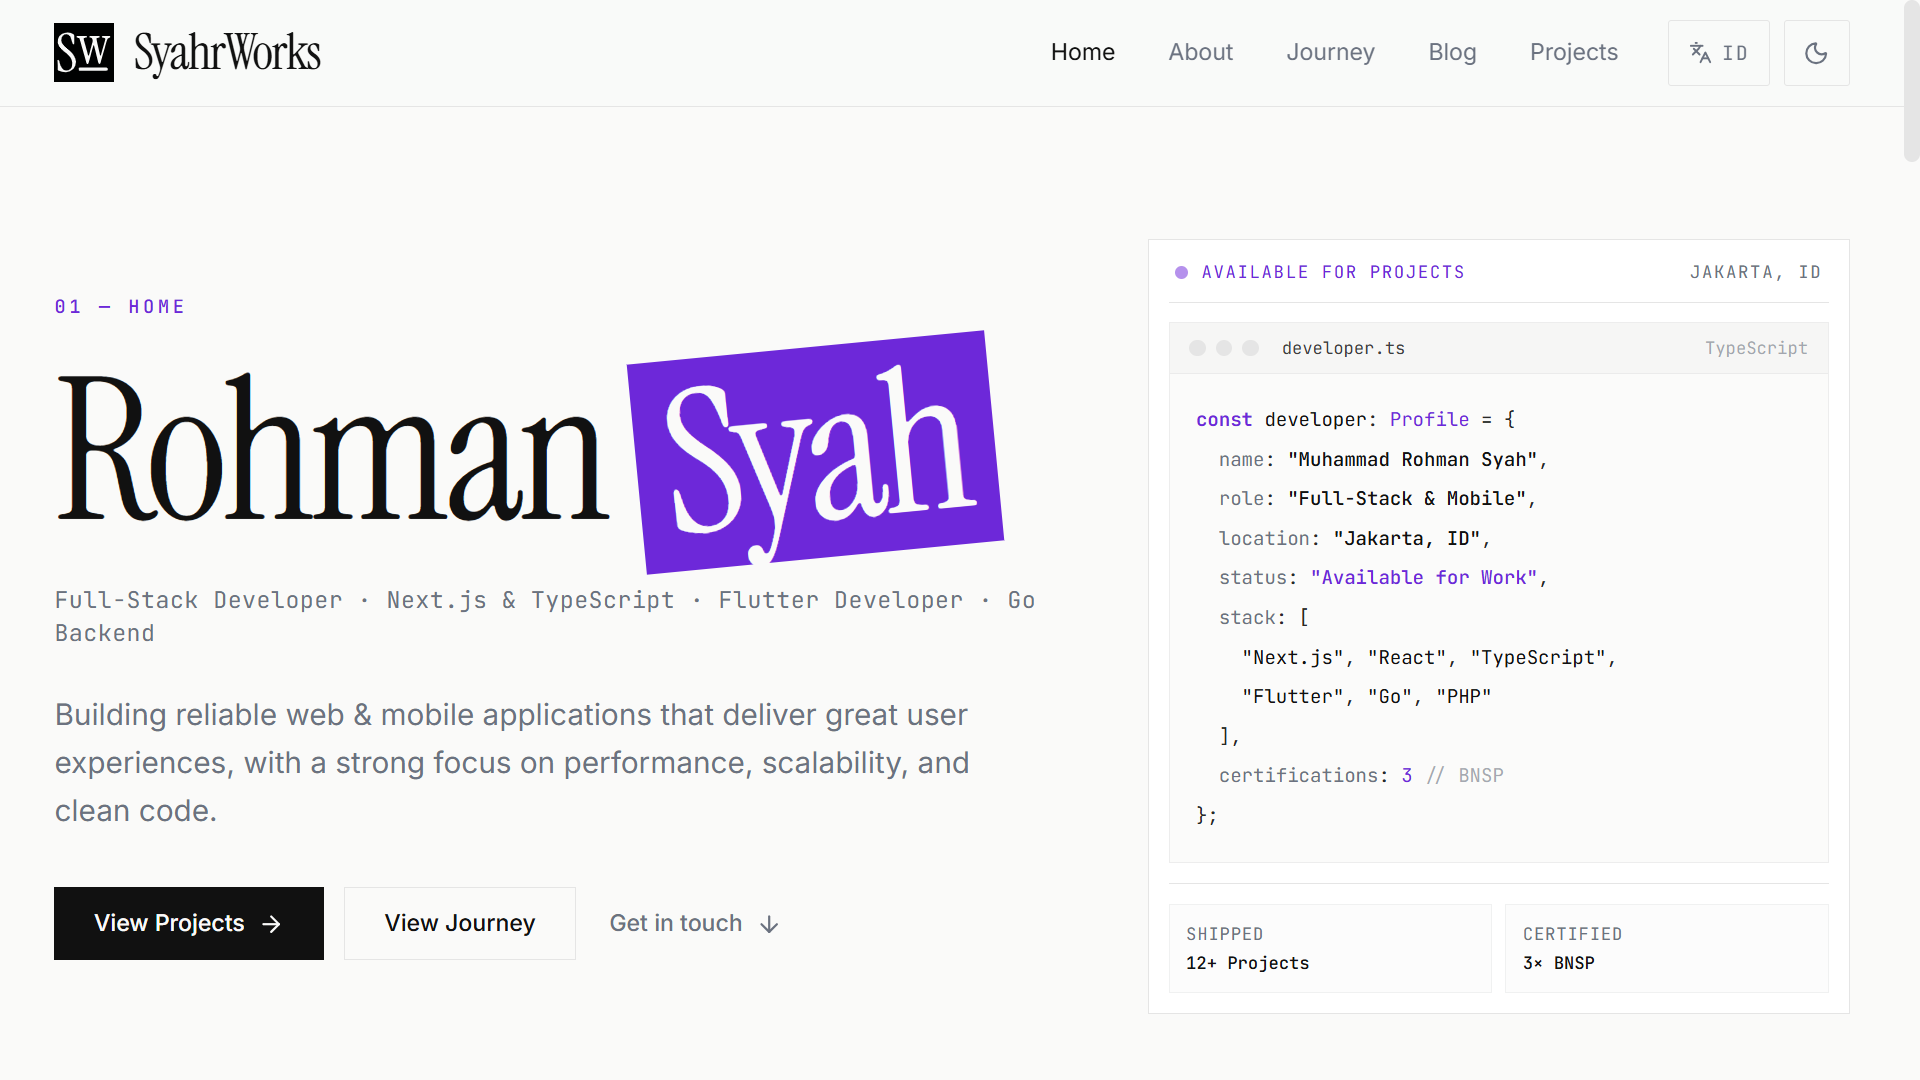
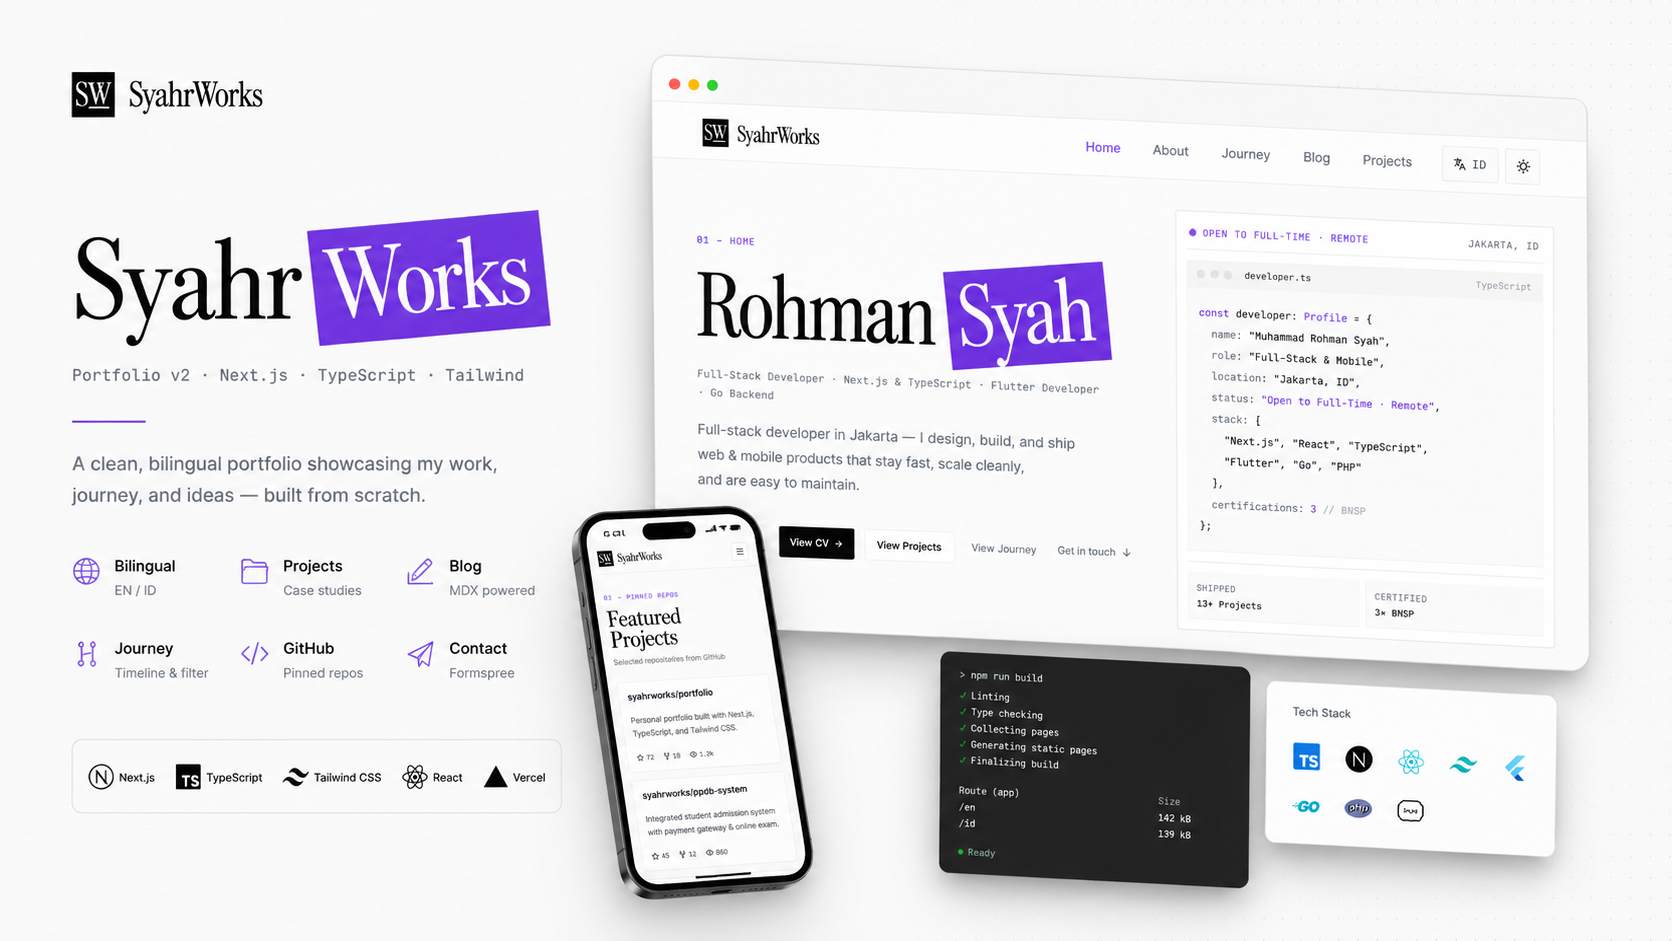
feat: cover gambar AI untuk 2 blog post (CMD/PowerShell & PPDB) + proyek SyahrWorks Portfolio

diff --git a/data/en/blog.ts b/data/en/blog.ts
@@ -12,7 +12,7 @@ export const blogPosts: BlogPost[] = [
     date: "2026-01-01",
     excerpt:
       "Research on developing an integrated admission system for SMKS Jakarta 1 Pondok Kopi: registration, digital payments via payment gateway, anti-cheating online exams, and centralized announcements — with a 'Very Good' acceptance rating (4.48/5.00).",
-    coverImage: "/blog/placeholder-blog.png",
+    coverImage: "/blog/ppdb-sistem-terpadu-payment-gateway-ujian-aman.png",
     tags: ["Research", "PPDB", "Payment Gateway", "Online Exam", "Waterfall"],
     category: "Research & Development",
     readingTime: "6 min read",
@@ -26,7 +26,7 @@ export const blogPosts: BlogPost[] = [
     date: "2026-08-05",
     excerpt:
       "Learning material on the most-used basic to intermediate commands in Command Prompt (CMD) and Windows PowerShell — complete with syntax, examples, their differences, and a suggested learning path.",
-    coverImage: "/blog/placeholder-blog.png",
+    coverImage: "/blog/panduan-perintah-cmd-powershell.png",
     tags: ["Windows", "CMD", "PowerShell", "Tutorial"],
     category: "Tutorial",
     readingTime: "12 min read",

diff --git a/data/id/blog.ts b/data/id/blog.ts
@@ -12,7 +12,7 @@ export const blogPosts: BlogPost[] = [
     date: "2026-01-01",
     excerpt:
       "Riset pengembangan sistem PPDB terpadu untuk SMKS Jakarta 1 Pondok Kopi: pendaftaran, pembayaran digital melalui payment gateway, ujian online anti-kecurangan, dan pengumuman terpusat — dengan penilaian penerimaan 'Sangat Baik' (4,48/5,00).",
-    coverImage: "/blog/placeholder-blog.png",
+    coverImage: "/blog/ppdb-sistem-terpadu-payment-gateway-ujian-aman.png",
     tags: ["Riset", "PPDB", "Payment Gateway", "Ujian Online", "Waterfall"],
     category: "Riset & Pengembangan",
     readingTime: "6 mnt baca",
@@ -26,7 +26,7 @@ export const blogPosts: BlogPost[] = [
     date: "2026-08-05",
     excerpt:
       "Materi pembelajaran perintah paling umum dari tingkat dasar hingga menengah di Command Prompt (CMD) dan Windows PowerShell — lengkap dengan sintaks, contoh, perbedaannya, dan alur belajar yang disarankan.",
-    coverImage: "/blog/placeholder-blog.png",
+    coverImage: "/blog/panduan-perintah-cmd-powershell.png",
     tags: ["Windows", "CMD", "PowerShell", "Tutorial"],
     category: "Tutorial",
     readingTime: "12 mnt baca",

diff --git a/data/id/projects.ts b/data/id/projects.ts
@@ -14,13 +14,13 @@ export const projects: Project[] = [
     title: "SyahrWorks Portfolio",
     description:
       "Situs ini sendiri — portfolio editorial bilingual (EN/ID) yang dibangun dari nol dengan Next.js 16, React 19, dan Tailwind CSS 4. Static-first, dengan Pinned Repos GitHub yang di-fetch di server.",
-    coverImage: "/projects/placeholder-project.png",
+    coverImage: "/projects/syahrworks-portfolio.png",
     tags: ["Web Development"],
     role: "Front-End Developer",
     techStack: ["Next.js 16", "React 19", "TypeScript", "Tailwind CSS 4", "Framer Motion", "i18n"],
     githubUrl: "https://github.com/rohmansyah23/syahrworks-portfolio",
     liveUrl: "https://syahrworks.vercel.app",
-    gallery: ["/projects/placeholder-project.png"],
+    gallery: ["/projects/syahrworks-portfolio.png"],
   },
   {
     id: "catering-mama-akbar",

diff --git a/data/en/projects.ts b/data/en/projects.ts
@@ -14,13 +14,13 @@ export const projects: Project[] = [
     title: "SyahrWorks Portfolio",
     description:
       "This site — a bilingual (EN/ID) editorial portfolio built from scratch on Next.js 16, React 19, and Tailwind CSS 4. Static-first, with server-fetched GitHub pinned repos.",
-    coverImage: "/projects/placeholder-project.png",
+    coverImage: "/projects/syahrworks-portfolio.png",
     tags: ["Web Development"],
     role: "Front-End Developer",
     techStack: ["Next.js 16", "React 19", "TypeScript", "Tailwind CSS 4", "Framer Motion", "i18n"],
     githubUrl: "https://github.com/rohmansyah23/syahrworks-portfolio",
     liveUrl: "https://syahrworks.vercel.app",
-    gallery: ["/projects/placeholder-project.png"],
+    gallery: ["/projects/syahrworks-portfolio.png"],
   },
   {
     id: "catering-mama-akbar",
